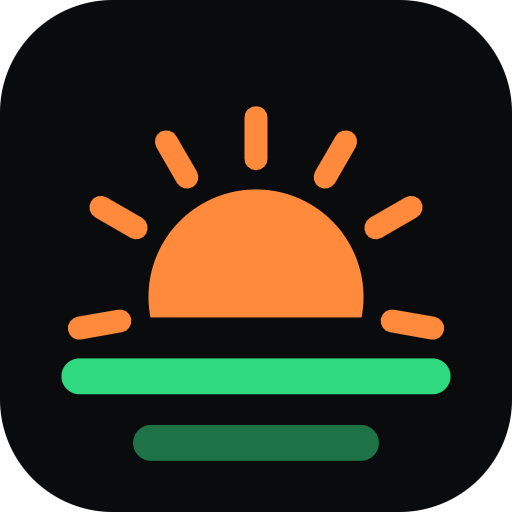
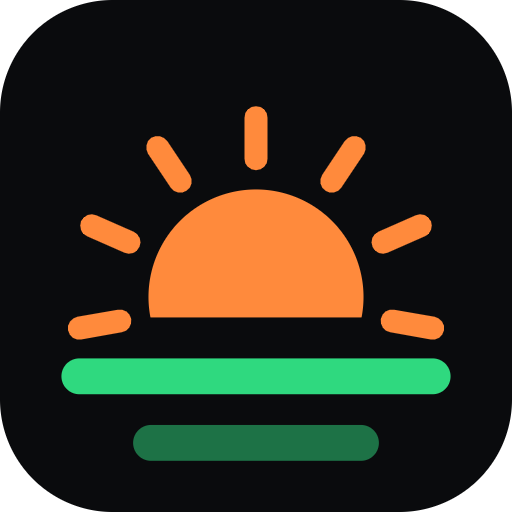
v13: los siete rayos, a la misma distancia exacta
Estaban a 30 grados los de dentro y a 40 los dos de los extremos, y ese
desajuste se notaba a simple vista. Ahora van de -100 a +100 grados
repartidos en seis huecos iguales de 33,3 grados cada uno.

Comprobado midiendo los angulos sobre el propio trazado, no a ojo.

diff --git a/cotizacion.js b/cotizacion.js
@@ -88,7 +88,7 @@ export function htmlCot(c){
         <defs><clipPath id="cotH"><rect x="0" y="0" width="100" height="62"/></clipPath></defs>
         <circle cx="50" cy="58" r="21" fill="#E8701F" clip-path="url(#cotH)"/>
         <g stroke="#E8701F" stroke-width="4.5" stroke-linecap="round">
-          <path d="M23.4 62.7L15.5 64.1M26.6 44.5L19.7 40.5M36.5 34.6L32.5 27.7M50 31L50 23M63.5 34.6L67.5 27.7M73.4 44.5L80.3 40.5M76.6 62.7L84.5 64.1"/></g>
+          <path d="M23.4 62.7L15.5 64.1M25.2 47.3L17.9 44.1M35.2 35.4L30.8 28.8M50 31L50 23M64.8 35.4L69.2 28.8M74.8 47.3L82.1 44.1M76.6 62.7L84.5 64.1"/></g>
         <rect x="12" y="70" width="76" height="7" rx="3.5" fill="#1E8E52"/>
         <rect x="26" y="83" width="48" height="7" rx="3.5" fill="#1E8E52" opacity=".5"/>
       </svg>
@@ -181,7 +181,7 @@ function htmlVenta(c){
         <defs><clipPath id="cotV"><rect x="0" y="0" width="100" height="62"/></clipPath></defs>
         <circle cx="50" cy="58" r="21" fill="#E8701F" clip-path="url(#cotV)"/>
         <g stroke="#E8701F" stroke-width="4.5" stroke-linecap="round">
-          <path d="M23.4 62.7L15.5 64.1M26.6 44.5L19.7 40.5M36.5 34.6L32.5 27.7M50 31L50 23M63.5 34.6L67.5 27.7M73.4 44.5L80.3 40.5M76.6 62.7L84.5 64.1"/></g>
+          <path d="M23.4 62.7L15.5 64.1M25.2 47.3L17.9 44.1M35.2 35.4L30.8 28.8M50 31L50 23M64.8 35.4L69.2 28.8M74.8 47.3L82.1 44.1M76.6 62.7L84.5 64.1"/></g>
         <rect x="12" y="70" width="76" height="7" rx="3.5" fill="#1E8E52"/>
         <rect x="26" y="83" width="48" height="7" rx="3.5" fill="#1E8E52" opacity=".5"/>
       </svg>

diff --git a/index.html b/index.html
@@ -345,7 +345,7 @@ input:focus-visible,select:focus-visible,textarea:focus-visible,button:focus-vis
         <defs><clipPath id="llHorizonte"><rect x="0" y="0" width="100" height="62"/></clipPath></defs>
         <circle cx="50" cy="58" r="21" fill="#FF8A3C" clip-path="url(#llHorizonte)"/>
         <g stroke="#FF8A3C" stroke-width="4.5" stroke-linecap="round">
-          <path d="M23.4 62.7L15.5 64.1M26.6 44.5L19.7 40.5M36.5 34.6L32.5 27.7M50 31L50 23M63.5 34.6L67.5 27.7M73.4 44.5L80.3 40.5M76.6 62.7L84.5 64.1"/>
+          <path d="M23.4 62.7L15.5 64.1M25.2 47.3L17.9 44.1M35.2 35.4L30.8 28.8M50 31L50 23M64.8 35.4L69.2 28.8M74.8 47.3L82.1 44.1M76.6 62.7L84.5 64.1"/>
         </g>
         <rect x="12" y="70" width="76" height="7" rx="3.5" fill="#2FD97F"/>
         <rect x="26" y="83" width="48" height="7" rx="3.5" fill="#2FD97F" opacity=".5"/>

diff --git a/iconos.html b/iconos.html
@@ -80,7 +80,7 @@ footer{margin-top:30px; padding-top:16px; border-top:1px solid var(--linea);
   <symbol id="B" viewBox="0 0 100 100">
     <circle cx="50" cy="58" r="21" fill="#FF8A3C"/>
     <g stroke="#FF8A3C" stroke-width="4.5" stroke-linecap="round">
-      <path d="M23.4 62.7L15.5 64.1M26.6 44.5L19.7 40.5M36.5 34.6L32.5 27.7M50 31L50 23M63.5 34.6L67.5 27.7M73.4 44.5L80.3 40.5M76.6 62.7L84.5 64.1"/></g>
+      <path d="M23.4 62.7L15.5 64.1M25.2 47.3L17.9 44.1M35.2 35.4L30.8 28.8M50 31L50 23M64.8 35.4L69.2 28.8M74.8 47.3L82.1 44.1M76.6 62.7L84.5 64.1"/></g>
     <rect x="12" y="62" width="76" height="7" rx="3.5" fill="#0A0B0D"/>
     <rect x="12" y="73" width="76" height="7" rx="3.5" fill="#2FD97F"/>
     <rect x="26" y="84" width="48" height="7" rx="3.5" fill="#2FD97F" opacity=".5"/>

diff --git a/sw.js b/sw.js
@@ -12,7 +12,7 @@
    almacenamiento del navegador, no aquí.
    ═══════════════════════════════════════════════════════════════════════ */
 
-const VERSION = 'llenergy-v12';
+const VERSION = 'llenergy-v13';
 
 const ARCHIVOS = [
   './',
